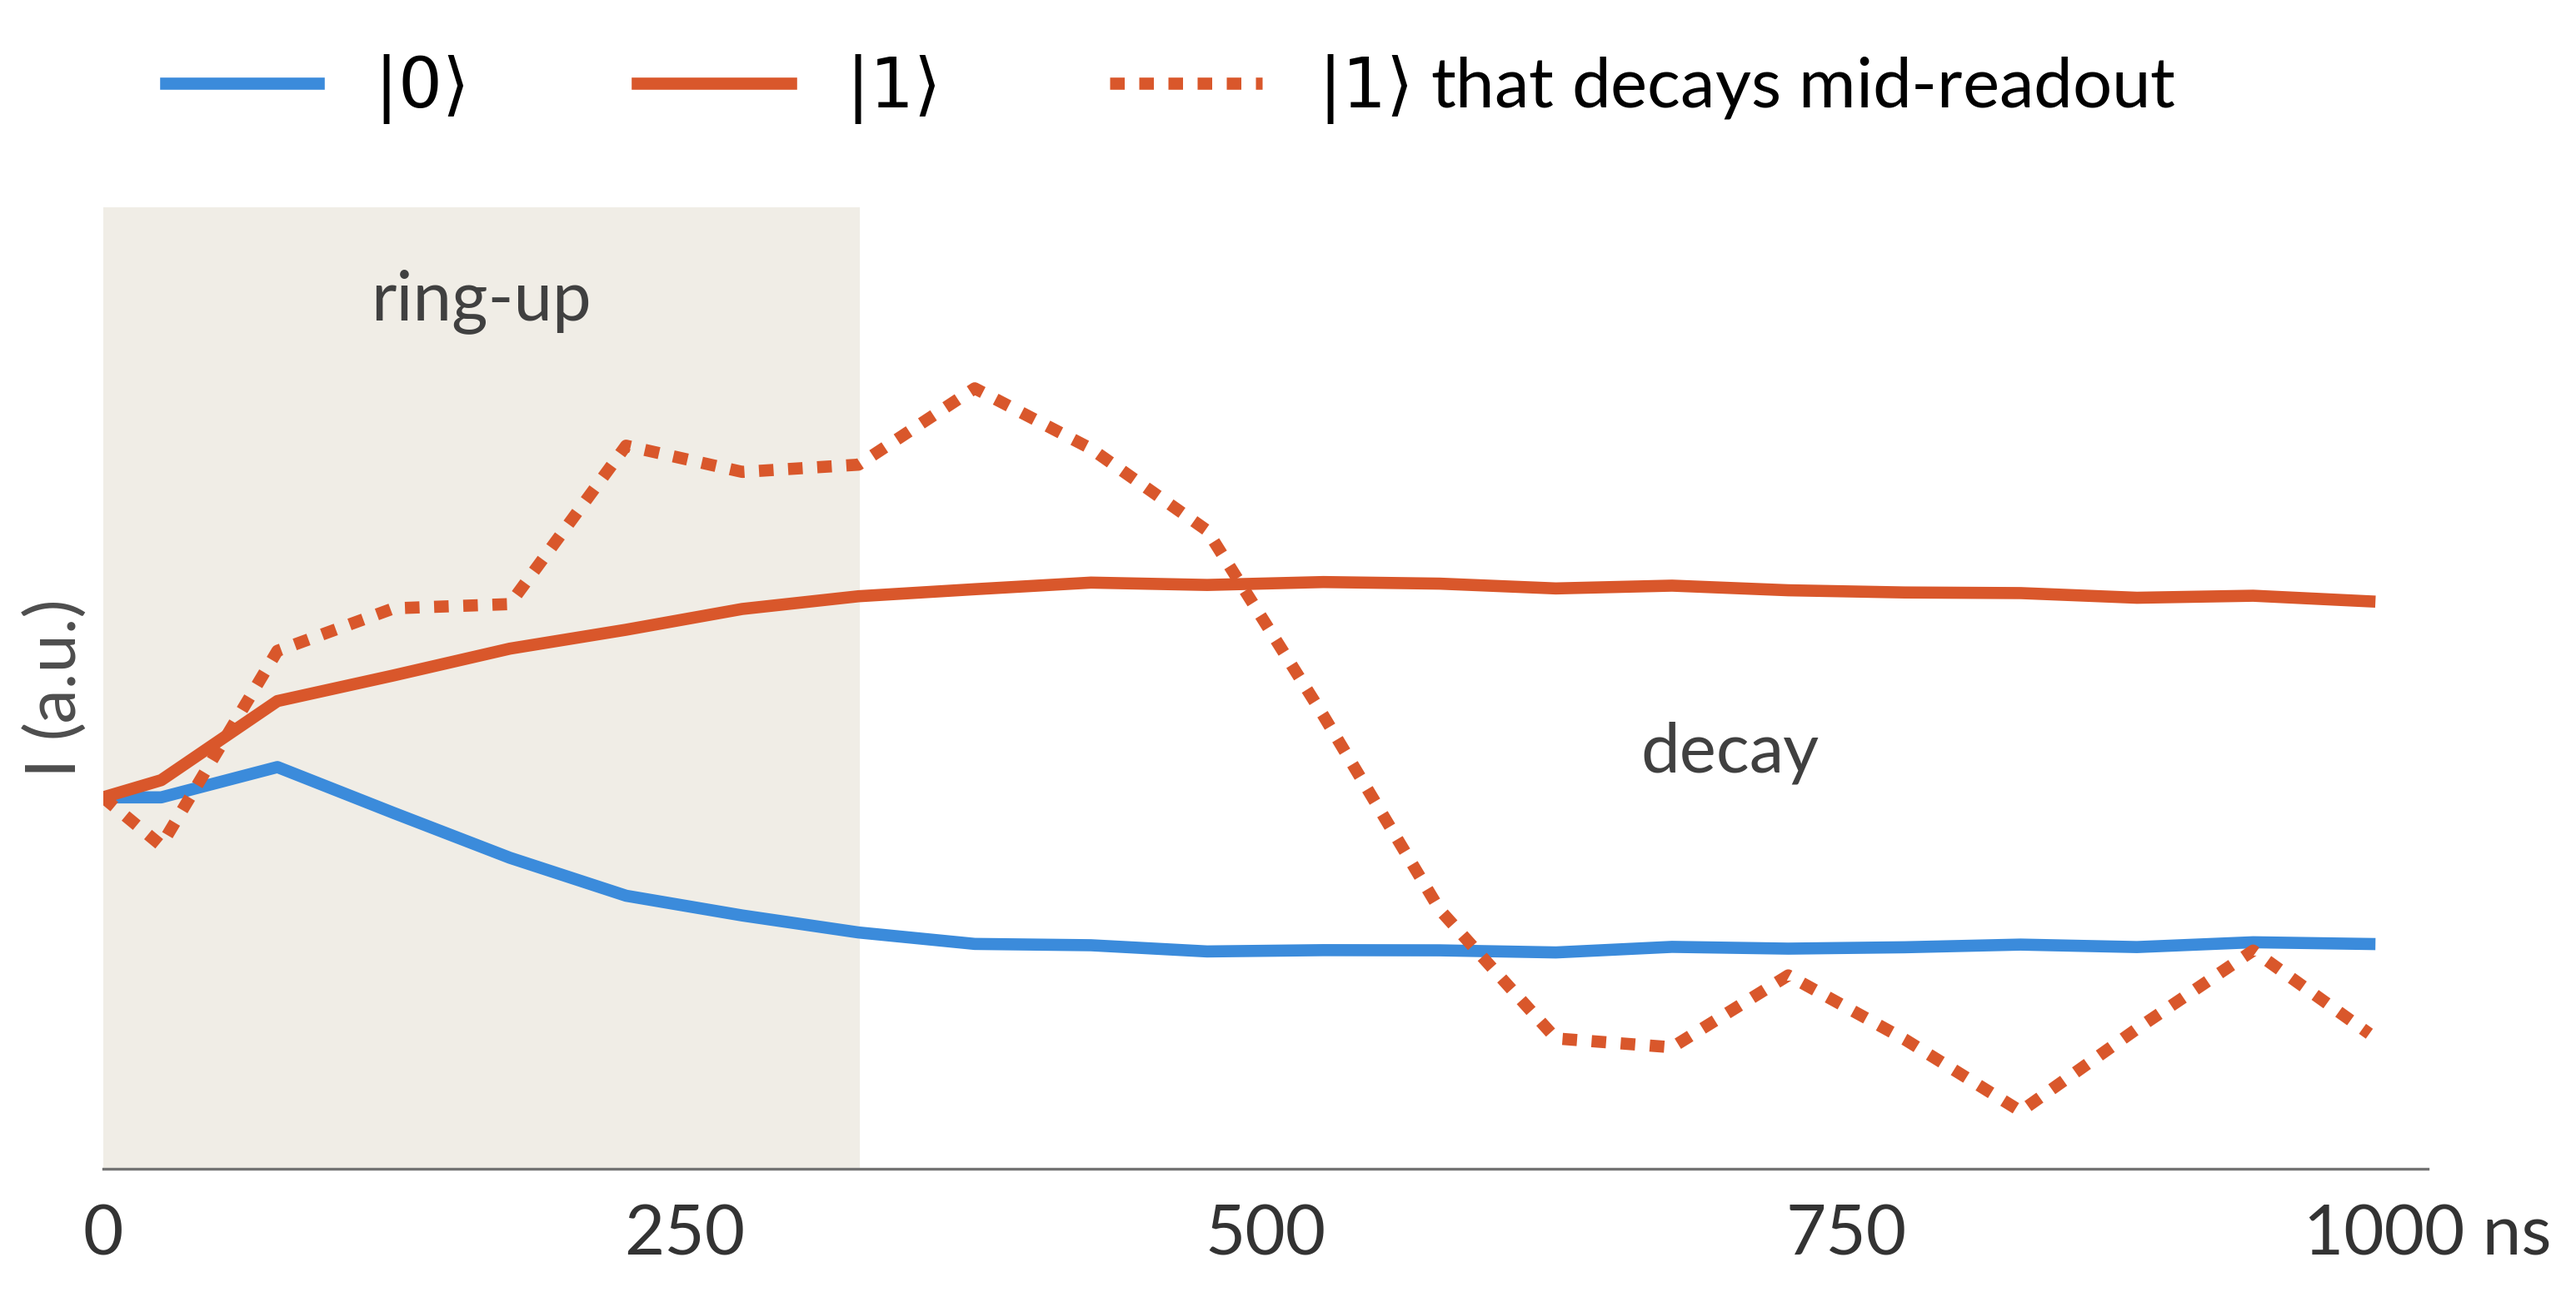
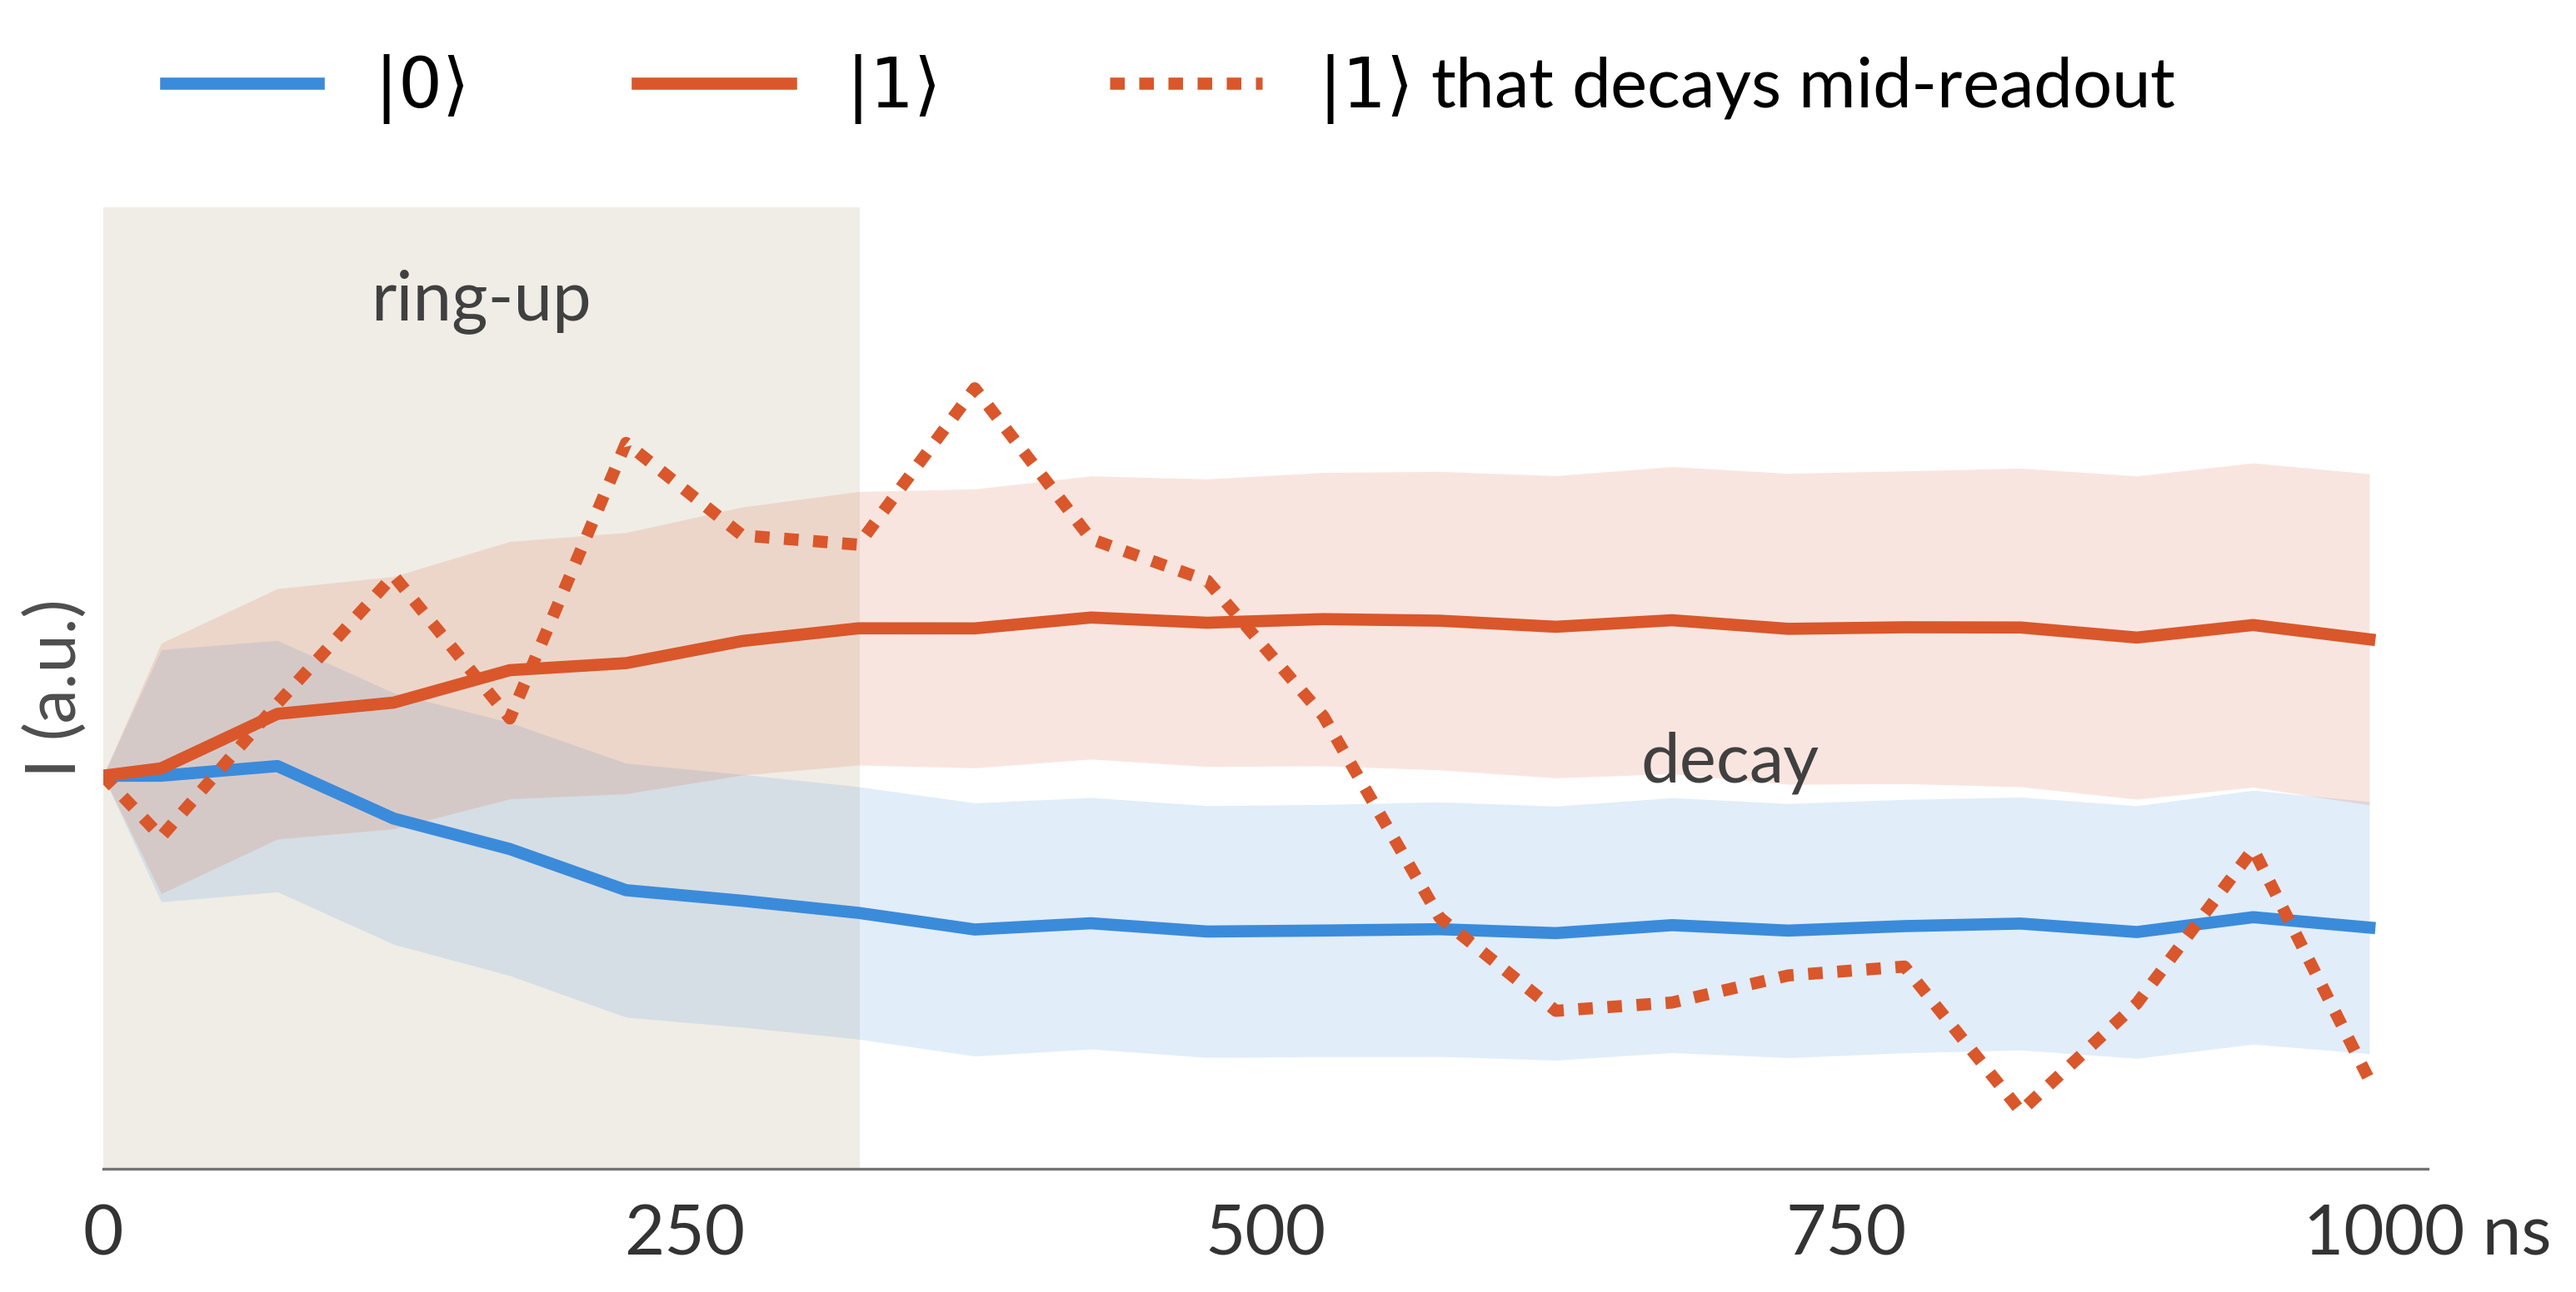
update trace plot

diff --git a/slides/plot_readout_trace.py b/slides/plot_readout_trace.py
@@ -2,7 +2,8 @@
 
 Data: the 5-qubit multiplexed raw IQ dataset (DRaw_C_{Tr,Te}), qubit 4, first 1000 ns (500 samples @ 500 MHz).
 Qubit 4 is digitally demodulated at a refined IF and rotated so the |1>-|0> separation lies on I; only I is plotted.
-  - |0>, |1>     : mean over all test shots with q4 in that state and the other qubits in |0> (35k each)
+  - |0>, |1>     : mean over all test shots with q4 in that state and the other qubits in |0> (35k each);
+                   shaded band = +-1 sigma single-shot spread (shows that early windows overlap)
   - decaying |1> : one real single test shot labelled |1> (DECAY_SHOT), found by fitting a step-down template
 The training file is used only to calibrate the IF and the I/Q rotation.
 Run from the repo root:  python slides/plot_readout_trace.py   (needs h5py; set READOUT_DATA to override)
@@ -30,7 +31,7 @@ DECAY_SHOT = 23945                        # index within the |q4=1> test block
 BLUE, RED, SHADE = "#3B8BDB", "#D9572B", "#F0EDE6"
 PAD = 100                                 # extra samples read past 1000 ns so the FIR has no edge artifact there
 t = np.arange(N_SAMPLES + PAD) / FS
-LOWPASS = firwin(101, 5e6, fs=FS)       # same FIR as runners/_colleague_prep, applied zero-phase 
+LOWPASS = firwin(51, 15e6, fs=FS)       # zero-phase; rejects the other qubits' tones (>=40 MHz away) with little time smearing
 
 
 def windows(f, key, start, n, if_freq, lowpass=False):
@@ -55,6 +56,7 @@ with h5py.File(TEST, "r") as f:
     i0 = (windows(f, "X_test", 0, SHOTS_TEST, if_freq, lowpass=True) * rot).real
     i1 = (windows(f, "X_test", STATE1 * SHOTS_TEST, SHOTS_TEST, if_freq, lowpass=True) * rot).real
 m0, m1, decay = i0.mean(0), i1.mean(0), i1[DECAY_SHOT]
+s0, s1 = i0.std(0), i1.std(0)
 plateau = m1[N_WIN // 2:].mean()
 ring_up_ns = (np.argmax(m1 - m0 >= 0.9 * (plateau - m0[N_WIN // 2:].mean())) + 0.5) * WIN_NS  # 90% of plateau
 
@@ -69,11 +71,13 @@ for side in ("top", "right", "left"):
 ax.spines["bottom"].set_color("0.45")
 
 ax.axvspan(0, ring_up_ns, color=SHADE, zorder=0)
+ax.fill_between(x_ns, with_origin(m0 - s0), with_origin(m0 + s0), color=BLUE, alpha=0.15, lw=0)
+ax.fill_between(x_ns, with_origin(m1 - s1), with_origin(m1 + s1), color=RED, alpha=0.15, lw=0)
 ax.plot(x_ns, with_origin(m0), color=BLUE, lw=3.5, label=r"$|0\rangle$")
 ax.plot(x_ns, with_origin(m1), color=RED, lw=3.5, label=r"$|1\rangle$")
 ax.plot(x_ns, with_origin(decay), color=RED, lw=3.5, ls=(0, (1.2, 1.2)), label=r"$|1\rangle$ that decays mid-readout")
 
-lo, hi = min(m0.min(), decay.min()), max(m1.max(), decay.max())
+lo, hi = min((m0 - s0).min(), decay.min()), max((m1 + s1).max(), decay.max())
 ax.set_ylim(lo - 0.08 * (hi - lo), hi + 0.25 * (hi - lo))
 ax.set_yticks([])
 ax.set_ylabel("I (a.u.)", color="0.3")
